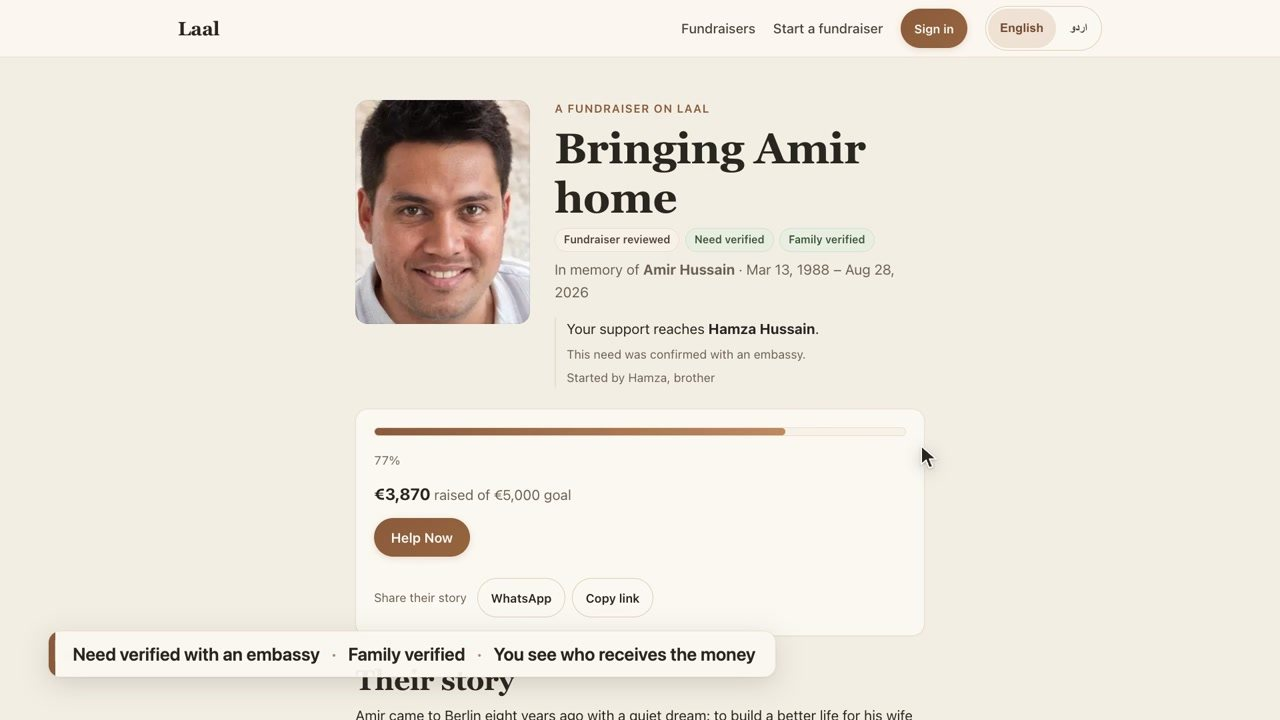
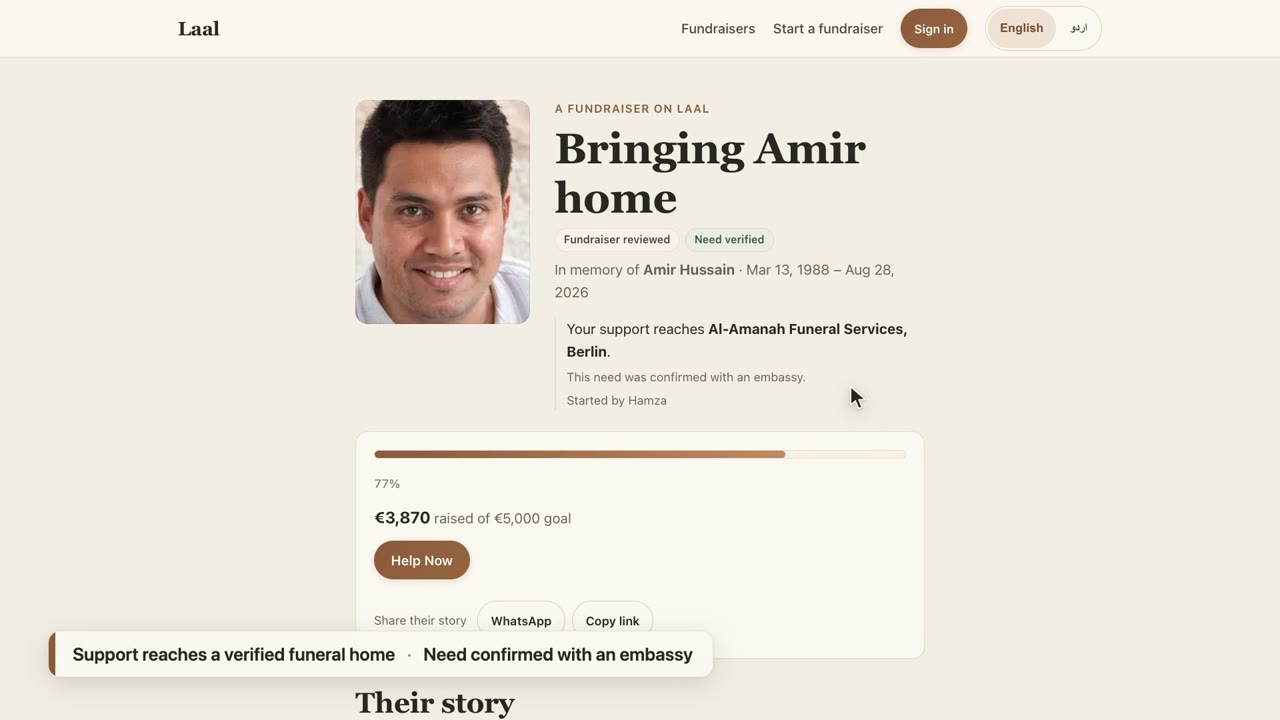
feat(home): play the Urdu walkthrough on the Urdu site
The hero picks the video edition by locale (ur → the Urdu cut, anything else
→ English), each a separate set of files so a visitor loads only their
language. Posters refreshed; assets versioned v2.

Claude-Session: https://claude.ai/code/session_01WY2WmHfD9WxVycFkN3r3Qy

diff --git a/apps/web/lib/demo-video.ts b/apps/web/lib/demo-video.ts
@@ -18,7 +18,7 @@ import { R2_PUBLIC_BASE_URL_IF_SET } from '@/lib/env';
  * with a one-year immutable cache, so the name must change for viewers to see
  * the new cut. Keep in sync with publish.sh.
  */
-const VERSION = 'v1';
+const VERSION = 'v2';
 
 export type DemoVideo = {
   /** Full walkthrough, 1080p, with sound. */
@@ -29,12 +29,19 @@ export type DemoVideo = {
   poster: string;
 };
 
-export function demoVideo(): DemoVideo | null {
+/** Locales that have their own narrated cut; others fall back to English. */
+const EDITIONS = new Set(['en', 'ur']);
+
+export function demoVideo(locale: string): DemoVideo | null {
   const base = R2_PUBLIC_BASE_URL_IF_SET();
   if (!base) return null;
+  // Each edition is a separate set of files, so a visitor downloads only the
+  // language they are looking at (the hero fetches the poster and the small
+  // teaser; the full film loads on play).
+  const sfx = EDITIONS.has(locale) && locale !== 'en' ? `-${locale}` : '';
   return {
-    src: `${base}/site/demo/laal-demo-1080p.${VERSION}.mp4`,
-    teaser: `${base}/site/demo/laal-demo-teaser.${VERSION}.mp4`,
-    poster: '/demo/laal-demo-poster.jpg',
+    src: `${base}/site/demo/laal-demo${sfx}-1080p.${VERSION}.mp4`,
+    teaser: `${base}/site/demo/laal-demo${sfx}-teaser.${VERSION}.mp4`,
+    poster: `/demo/laal-demo${sfx}-poster.jpg`,
   };
 }

diff --git a/apps/web/app/[locale]/page.tsx b/apps/web/app/[locale]/page.tsx
@@ -143,7 +143,7 @@ export default async function HomePage({
      so a hard-coded English app screen would be the first thing most visitors
      see. Amounts are formatted here (the mockup stays presentational). */
   const money = (amount: number) => formatMoney(amount, MOCKUP_CURRENCY, locale);
-  const video = demoVideo();
+  const video = demoVideo(locale);
   const mockup: MockupCopy = {
     listTitle: t('mockup.listTitle'),
     verified: t('mockup.verified'),
